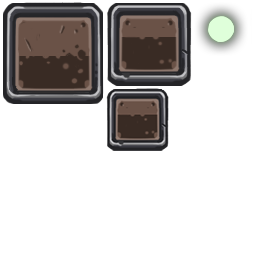
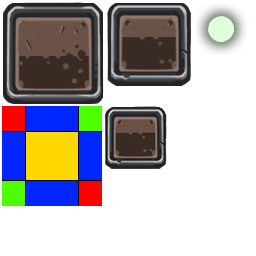
scale9sprite using sprite frame implemented

Changed region(s): [[0.0, 0.3438, 0.6875, 0.8125]]

diff --git a/src/s2d_scale9sprite.cpp b/src/s2d_scale9sprite.cpp
@@ -14,14 +14,13 @@ void scale9sprite::init()
 
     _draw_mode = SLICE;
     _frame = nullptr;
-    _origin_size = size::make(0, 0);
     _dirty = false;
 }
 
 bool scale9sprite::update(float dt)
 {
     if (_dirty) {
-        this->set_quad_with_frame(_texture, _frame);
+        this->update_vertices();
         _dirty= false;
     }
 
@@ -48,23 +47,25 @@ void scale9sprite::set_size(const size& size)
     _dirty = true;
 }
 
-void scale9sprite::set_texture(const char* tex_file)
+void scale9sprite::set_texture(texture* tex)
 {
-    texture* tex = context::C()->_texture_cache->load(tex_file);
-
     texture_blend_protocol::set_texture(tex);
-    _origin_size = tex->_size;
+    _size = tex->_size;
     _dirty = true;
 }
 
-void scale9sprite::set_texture(sprite_frame* frame)
+void scale9sprite::set_texture_with_file(const char* tex_file)
 {
-
+    texture* tex = context::C()->_texture_cache->load(tex_file);
+    this->set_texture(tex);
 }
 
-void scale9sprite::set_texture(texture* tex)
+void scale9sprite::set_texture_with_frame(sprite_frame* frame)
 {
-    
+    texture_blend_protocol::set_texture(frame->_texture);
+    _size = frame->_frame.size;
+    _frame = frame;
+    _dirty = true;
 }
 
 void scale9sprite::set_border(const border& border)
@@ -73,7 +74,7 @@ void scale9sprite::set_border(const border& border)
     _dirty = true;
 }
 
-void scale9sprite::set_quad_with_frame(texture* tex, sprite_frame* frame)
+void scale9sprite::update_vertices()
 {
     /*
      * Coord layout for the code below.
@@ -90,88 +91,142 @@ void scale9sprite::set_quad_with_frame(texture* tex, sprite_frame* frame)
      *    |G |     H     | I|
      *    0--1-----------2--3
      */
-    if (frame) {
+    if (_draw_mode == SLICE) {
+        this->update_vertices_in_slice_mode();
+    } else if (_draw_mode == TILED) {
+        this->update_vertices_in_tile_mode();
+    } else {
+        S2D_ASSERT(false);
+    }
+}
 
+void scale9sprite::update_vertices_in_slice_mode()
+{
+    sprite_frame* frame = _frame;
+    texture*      tex   = _texture;
+
+    float x, y, w, h;
+    uint16_t ix, iy, iw, ih, l, r, b, t, il, ir, ib, it;
+
+    if (frame) {
+        float tex_w = frame->_texture->_size.width;
+        float tex_h = frame->_texture->_size.height;
+
+        float fx = frame->_frame.origin.x;
+        float fy = frame->_frame.origin.y;
+        float fw = frame->_frame.size.width;
+        float fh = frame->_frame.size.height;
+
+        if (frame->_rotated) {
+            std::swap(fw, fh);
+        }
+
+        // position coords
+        x = _border.left;
+        y = _border.bottom;
+        w = _size.width  - _border.right - _border.left;
+        h = _size.height - _border.top   - _border.bottom;
+
+        ix = _border.left;
+        iy = _border.bottom;
+        iw = fw - _border.right - _border.left;
+        ih = fh - _border.top   - _border.bottom;
+
+        // texture coords
+        l = uniform_to_uint16 ((fx)      / tex_w);
+        r = uniform_to_uint16 ((fx + fw) / tex_w);
+        b = uniform_to_uint16 ((fy)      / tex_h);
+        t = uniform_to_uint16 ((fy + fh) / tex_h);
+
+        il = uniform_to_uint16((fx + ix)      / tex_w);
+        ir = uniform_to_uint16((fx + ix + iw) / tex_w);
+        ib = uniform_to_uint16((fy + iy)      / tex_h);
+        it = uniform_to_uint16((fy + iy + ih) / tex_h);
     } else {
         float tex_w = tex->_size.width;
         float tex_h = tex->_size.height;
 
         // position coords
-        float x = _border.left;
-        float y = _border.bottom;
-        float w = _size.width  - _border.right - _border.left;
-        float h = _size.height - _border.top   - _border.bottom;
+        x = _border.left;
+        y = _border.bottom;
+        w = _size.width  - _border.right - _border.left;
+        h = _size.height - _border.top   - _border.bottom;
 
-        float ix = _border.left;
-        float iy = _border.bottom;
-        float iw = tex_w - _border.right - _border.left;
-        float ih = tex_h - _border.top   - _border.bottom;
+        ix = _border.left;
+        iy = _border.bottom;
+        iw = tex_w - _border.right - _border.left;
+        ih = tex_h - _border.top   - _border.bottom;
 
         // texture coords.
-        float l = uniform_to_uint16(0.0f);
-        float r = uniform_to_uint16(1.0f);
-        float b = uniform_to_uint16(0.0f);
-        float t = uniform_to_uint16(1.0f);
-        
-        float il = uniform_to_uint16((ix)      / tex_w);
-        float ir = uniform_to_uint16((ix + iw) / tex_w);
-        float ib = uniform_to_uint16((iy)      / tex_h);
-        float it = uniform_to_uint16((iy + ih) / tex_h);
+        l = uniform_to_uint16(0.0f);
+        r = uniform_to_uint16(1.0f);
+        b = uniform_to_uint16(0.0f);
+        t = uniform_to_uint16(1.0f);
 
-        // rect G:
-        pos_tex_color_vertex::assign(_vertices + 0, 0, 0, l,  t,  COLOR_WHITE); // 0
-        pos_tex_color_vertex::assign(_vertices + 1, 0, y, l,  it, COLOR_WHITE); // 11
-        pos_tex_color_vertex::assign(_vertices + 2, x, 0, il, t,  COLOR_WHITE); // 1
-        pos_tex_color_vertex::assign(_vertices + 3, x, y, il, it, COLOR_WHITE); // 12
-
-        // rect H:
-        pos_tex_color_vertex::assign(_vertices + 4, x,   0, il, t,  COLOR_WHITE); // 1
-        pos_tex_color_vertex::assign(_vertices + 5, x,   y, il, it, COLOR_WHITE); // 12
-        pos_tex_color_vertex::assign(_vertices + 6, x+w, 0, ir, t,  COLOR_WHITE); // 2
-        pos_tex_color_vertex::assign(_vertices + 7, x+w, y, ir, it, COLOR_WHITE); // 13
-
-        // rect I:
-        pos_tex_color_vertex::assign(_vertices + 8,  x+w,         0, ir, t,  COLOR_WHITE); // 2
-        pos_tex_color_vertex::assign(_vertices + 9,  x+w,         y, ir, it, COLOR_WHITE); // 13
-        pos_tex_color_vertex::assign(_vertices + 10, _size.width, 0, r,  t,  COLOR_WHITE); // 3
-        pos_tex_color_vertex::assign(_vertices + 11, _size.width, y, r,  it, COLOR_WHITE); // 4
-
-        // rect F:
-        pos_tex_color_vertex::assign(_vertices + 12, x+w,         y,   ir, it, COLOR_WHITE); // 13
-        pos_tex_color_vertex::assign(_vertices + 13, x+w,         y+h, ir, ib, COLOR_WHITE); // 14
-        pos_tex_color_vertex::assign(_vertices + 14, _size.width, y,   r,  it, COLOR_WHITE); // 4
-        pos_tex_color_vertex::assign(_vertices + 15, _size.width, y+h, r,  ib, COLOR_WHITE); // 5
-
-        // rect C:
-        pos_tex_color_vertex::assign(_vertices + 16, x+w,         y+h,          ir, ib, COLOR_WHITE); // 14
-        pos_tex_color_vertex::assign(_vertices + 17, x+w,         _size.height, ir, b,  COLOR_WHITE); // 7
-        pos_tex_color_vertex::assign(_vertices + 18, _size.width, y+h,          r,  ib, COLOR_WHITE); // 5
-        pos_tex_color_vertex::assign(_vertices + 19, _size.width, _size.height, r,  b,  COLOR_WHITE); // 6
-
-        // rect B:
-        pos_tex_color_vertex::assign(_vertices + 20, x,   y+h,          il, ib, COLOR_WHITE); // 15
-        pos_tex_color_vertex::assign(_vertices + 21, x,   _size.height, il, b,  COLOR_WHITE); // 8
-        pos_tex_color_vertex::assign(_vertices + 22, x+w, y+h,          ir, ib, COLOR_WHITE); // 14
-        pos_tex_color_vertex::assign(_vertices + 23, x+w, _size.height, ir, b,  COLOR_WHITE); // 7
-
-        // rect A:
-        pos_tex_color_vertex::assign(_vertices + 24, 0, y+h,          l,  ib, COLOR_WHITE); // 10
-        pos_tex_color_vertex::assign(_vertices + 25, 0, _size.height, l,  b,  COLOR_WHITE); // 9
-        pos_tex_color_vertex::assign(_vertices + 26, x, y+h,          il, ib, COLOR_WHITE); // 15
-        pos_tex_color_vertex::assign(_vertices + 27, x, _size.height, il, b,  COLOR_WHITE); // 8
-
-        // rect D:
-        pos_tex_color_vertex::assign(_vertices + 28, 0, y,   l,  it, COLOR_WHITE); // 11
-        pos_tex_color_vertex::assign(_vertices + 29, 0, y+h, l,  ib, COLOR_WHITE); // 10
-        pos_tex_color_vertex::assign(_vertices + 30, x, y,   il, it, COLOR_WHITE); // 12
-        pos_tex_color_vertex::assign(_vertices + 31, x, y+h, il, ib, COLOR_WHITE); // 15
-
-        // rect E:
-        pos_tex_color_vertex::assign(_vertices + 32, x,   y,   il, it, COLOR_WHITE); // 11
-        pos_tex_color_vertex::assign(_vertices + 33, x,   y+h, il, ib, COLOR_WHITE); // 10
-        pos_tex_color_vertex::assign(_vertices + 34, x+w, y,   ir, it, COLOR_WHITE); // 12
-        pos_tex_color_vertex::assign(_vertices + 35, x+w, y+h, ir, ib, COLOR_WHITE); // 15
+        il = uniform_to_uint16((ix)      / tex_w);
+        ir = uniform_to_uint16((ix + iw) / tex_w);
+        ib = uniform_to_uint16((iy)      / tex_h);
+        it = uniform_to_uint16((iy + ih) / tex_h);
     }
+    
+    // rect G:
+    pos_tex_color_vertex::assign(_vertices + 0, 0, 0, l,  t,  COLOR_WHITE); // 0
+    pos_tex_color_vertex::assign(_vertices + 1, 0, y, l,  it, COLOR_WHITE); // 11
+    pos_tex_color_vertex::assign(_vertices + 2, x, 0, il, t,  COLOR_WHITE); // 1
+    pos_tex_color_vertex::assign(_vertices + 3, x, y, il, it, COLOR_WHITE); // 12
+
+    // rect H:
+    pos_tex_color_vertex::assign(_vertices + 4, x,   0, il, t,  COLOR_WHITE); // 1
+    pos_tex_color_vertex::assign(_vertices + 5, x,   y, il, it, COLOR_WHITE); // 12
+    pos_tex_color_vertex::assign(_vertices + 6, x+w, 0, ir, t,  COLOR_WHITE); // 2
+    pos_tex_color_vertex::assign(_vertices + 7, x+w, y, ir, it, COLOR_WHITE); // 13
+
+    // rect I:
+    pos_tex_color_vertex::assign(_vertices + 8,  x+w,         0, ir, t,  COLOR_WHITE); // 2
+    pos_tex_color_vertex::assign(_vertices + 9,  x+w,         y, ir, it, COLOR_WHITE); // 13
+    pos_tex_color_vertex::assign(_vertices + 10, _size.width, 0, r,  t,  COLOR_WHITE); // 3
+    pos_tex_color_vertex::assign(_vertices + 11, _size.width, y, r,  it, COLOR_WHITE); // 4
+
+    // rect F:
+    pos_tex_color_vertex::assign(_vertices + 12, x+w,         y,   ir, it, COLOR_WHITE); // 13
+    pos_tex_color_vertex::assign(_vertices + 13, x+w,         y+h, ir, ib, COLOR_WHITE); // 14
+    pos_tex_color_vertex::assign(_vertices + 14, _size.width, y,   r,  it, COLOR_WHITE); // 4
+    pos_tex_color_vertex::assign(_vertices + 15, _size.width, y+h, r,  ib, COLOR_WHITE); // 5
+
+    // rect C:
+    pos_tex_color_vertex::assign(_vertices + 16, x+w,         y+h,          ir, ib, COLOR_WHITE); // 14
+    pos_tex_color_vertex::assign(_vertices + 17, x+w,         _size.height, ir, b,  COLOR_WHITE); // 7
+    pos_tex_color_vertex::assign(_vertices + 18, _size.width, y+h,          r,  ib, COLOR_WHITE); // 5
+    pos_tex_color_vertex::assign(_vertices + 19, _size.width, _size.height, r,  b,  COLOR_WHITE); // 6
+
+    // rect B:
+    pos_tex_color_vertex::assign(_vertices + 20, x,   y+h,          il, ib, COLOR_WHITE); // 15
+    pos_tex_color_vertex::assign(_vertices + 21, x,   _size.height, il, b,  COLOR_WHITE); // 8
+    pos_tex_color_vertex::assign(_vertices + 22, x+w, y+h,          ir, ib, COLOR_WHITE); // 14
+    pos_tex_color_vertex::assign(_vertices + 23, x+w, _size.height, ir, b,  COLOR_WHITE); // 7
+
+    // rect A:
+    pos_tex_color_vertex::assign(_vertices + 24, 0, y+h,          l,  ib, COLOR_WHITE); // 10
+    pos_tex_color_vertex::assign(_vertices + 25, 0, _size.height, l,  b,  COLOR_WHITE); // 9
+    pos_tex_color_vertex::assign(_vertices + 26, x, y+h,          il, ib, COLOR_WHITE); // 15
+    pos_tex_color_vertex::assign(_vertices + 27, x, _size.height, il, b,  COLOR_WHITE); // 8
+
+    // rect D:
+    pos_tex_color_vertex::assign(_vertices + 28, 0, y,   l,  it, COLOR_WHITE); // 11
+    pos_tex_color_vertex::assign(_vertices + 29, 0, y+h, l,  ib, COLOR_WHITE); // 10
+    pos_tex_color_vertex::assign(_vertices + 30, x, y,   il, it, COLOR_WHITE); // 12
+    pos_tex_color_vertex::assign(_vertices + 31, x, y+h, il, ib, COLOR_WHITE); // 15
+
+    // rect E:
+    pos_tex_color_vertex::assign(_vertices + 32, x,   y,   il, it, COLOR_WHITE); // 11
+    pos_tex_color_vertex::assign(_vertices + 33, x,   y+h, il, ib, COLOR_WHITE); // 10
+    pos_tex_color_vertex::assign(_vertices + 34, x+w, y,   ir, it, COLOR_WHITE); // 12
+    pos_tex_color_vertex::assign(_vertices + 35, x+w, y+h, ir, ib, COLOR_WHITE); // 15
+}
+
+void scale9sprite::update_vertices_in_tile_mode()
+{
+
 }
 
 NS_S2D_END

diff --git a/src/s2d_sprite.cpp b/src/s2d_sprite.cpp
@@ -161,7 +161,12 @@ void sprite::set_quad_with_frame(texture* tex, sprite_frame* frame)
         uint16_t bottom = uniform_to_uint16 ((y)   / tex_h);
         uint16_t top    = uniform_to_uint16 ((y+h) / tex_h);
         
-        /* Notice:
+        /*
+         *  1------2
+         *  |      |
+         *  |      |
+         *  0------3
+         *
          *  quad[0] -> bottom-left
          *  quad[1] -> bottom-right
          *  quad[2] -> top-left
@@ -204,7 +209,6 @@ void sprite::set_quad_with_frame(texture* tex, sprite_frame* frame)
         _quad[3].pos.y = oh;
         _quad[3].color = 0xffffffff;
     } else {
-        
         // load the whole texture
         uint16_t left = 0;
         uint16_t right = S2D_TEX_COORD_MAX;
@@ -216,13 +220,7 @@ void sprite::set_quad_with_frame(texture* tex, sprite_frame* frame)
             // for rare cases, such as render-texture is not.
             std::swap(bottom, top);
         }
-        /*  1------2
-         *  |      |
-         *  |      |
-         *  0------3
-         *
-         */
-        
+
         _quad[0].pos.x = 0;
         _quad[0].pos.y = 0;
         _quad[0].uv.u = left;

diff --git a/src/s2d_scale9sprite.h b/src/s2d_scale9sprite.h
@@ -28,24 +28,26 @@ public:
     void init() override;
     bool update(float dt) override;
     void draw(render_state* rs) override;
+    
 public:
-    void set_texture(const char* tex_file);
-    void set_texture(sprite_frame* frame);
     void set_texture(texture* tex);
+    void set_texture_with_file(const char* tex_file);
+    void set_texture_with_frame(sprite_frame* frame);
     void set_size(const size& size);
-
+    
     void set_draw_mode(DRAW_MODE mode);
     void set_border(const border& border);
 
 private:
-    inline void set_quad_with_frame(texture* tex, sprite_frame* frame);
+    void update_vertices();
+    void update_vertices_in_slice_mode();
+    void update_vertices_in_tile_mode();
 
 public:
     pos_tex_color_vertex _vertices[36];
     DRAW_MODE            _draw_mode;
     border               _border;
     sprite_frame*        _frame;
-    size                 _origin_size;
     bool                 _dirty;
 };
 

diff --git a/example/hello-world/csrc/entry.cpp b/example/hello-world/csrc/entry.cpp
@@ -14,6 +14,7 @@ void entry::on_init(context* ctx)
     LOGD("entry:: on_init");
 
     ctx->_sprite_frame_cache->load("res/animations/pirate.json", "res/animations/pirate.png");
+    ctx->_sprite_frame_cache->load("res/images/ui_atlas.json", "res/images/ui_atlas.png");
 
     node* root = ctx->get_root();
     root->set_anchor(0, 0);
@@ -24,10 +25,13 @@ void entry::on_init(context* ctx)
 //    p->add_line(vec2::make(0, 0), vec2::make(100, 100), 0x0000ff00);
 //    root->add_child(p);
 
+    sprite_frame* frame = ctx->_sprite_frame_cache->get("color_pad.png");
+
     scale9sprite* s = new scale9sprite();
     s->init();
-    s->set_texture("res/images/color_pad.png");
     s->set_border(border::make(25, 25, 25, 25));
+    s->set_texture_with_frame(frame);
+//    s->set_texture_with_file("res/images/color_pad.png");
     s->set_size(size::make(400, 400));
     s->set_pos(200, 200);
     root->add_child(s);

diff --git a/src/s2d_texture.h b/src/s2d_texture.h
@@ -22,6 +22,7 @@ public:
     
     bool init(const char* file);
     bool init(uint8_t* raw_data, size_t len);
+    
     inline void bind()
     {
         glActiveTexture(GL_TEXTURE0);
@@ -37,7 +38,7 @@ public:
     texture_id_t    _id;
     size            _size;
     GLuint          _name;
-    bool            _upside_down; /* if a texture is upside-down, render-texture is false.*/
+    bool            _upside_down; /* if a texture is upside-down, render-texture is true.*/
     bool            _premultiply_alpha;
     
     static texture_id_t _texture_id_counter;
